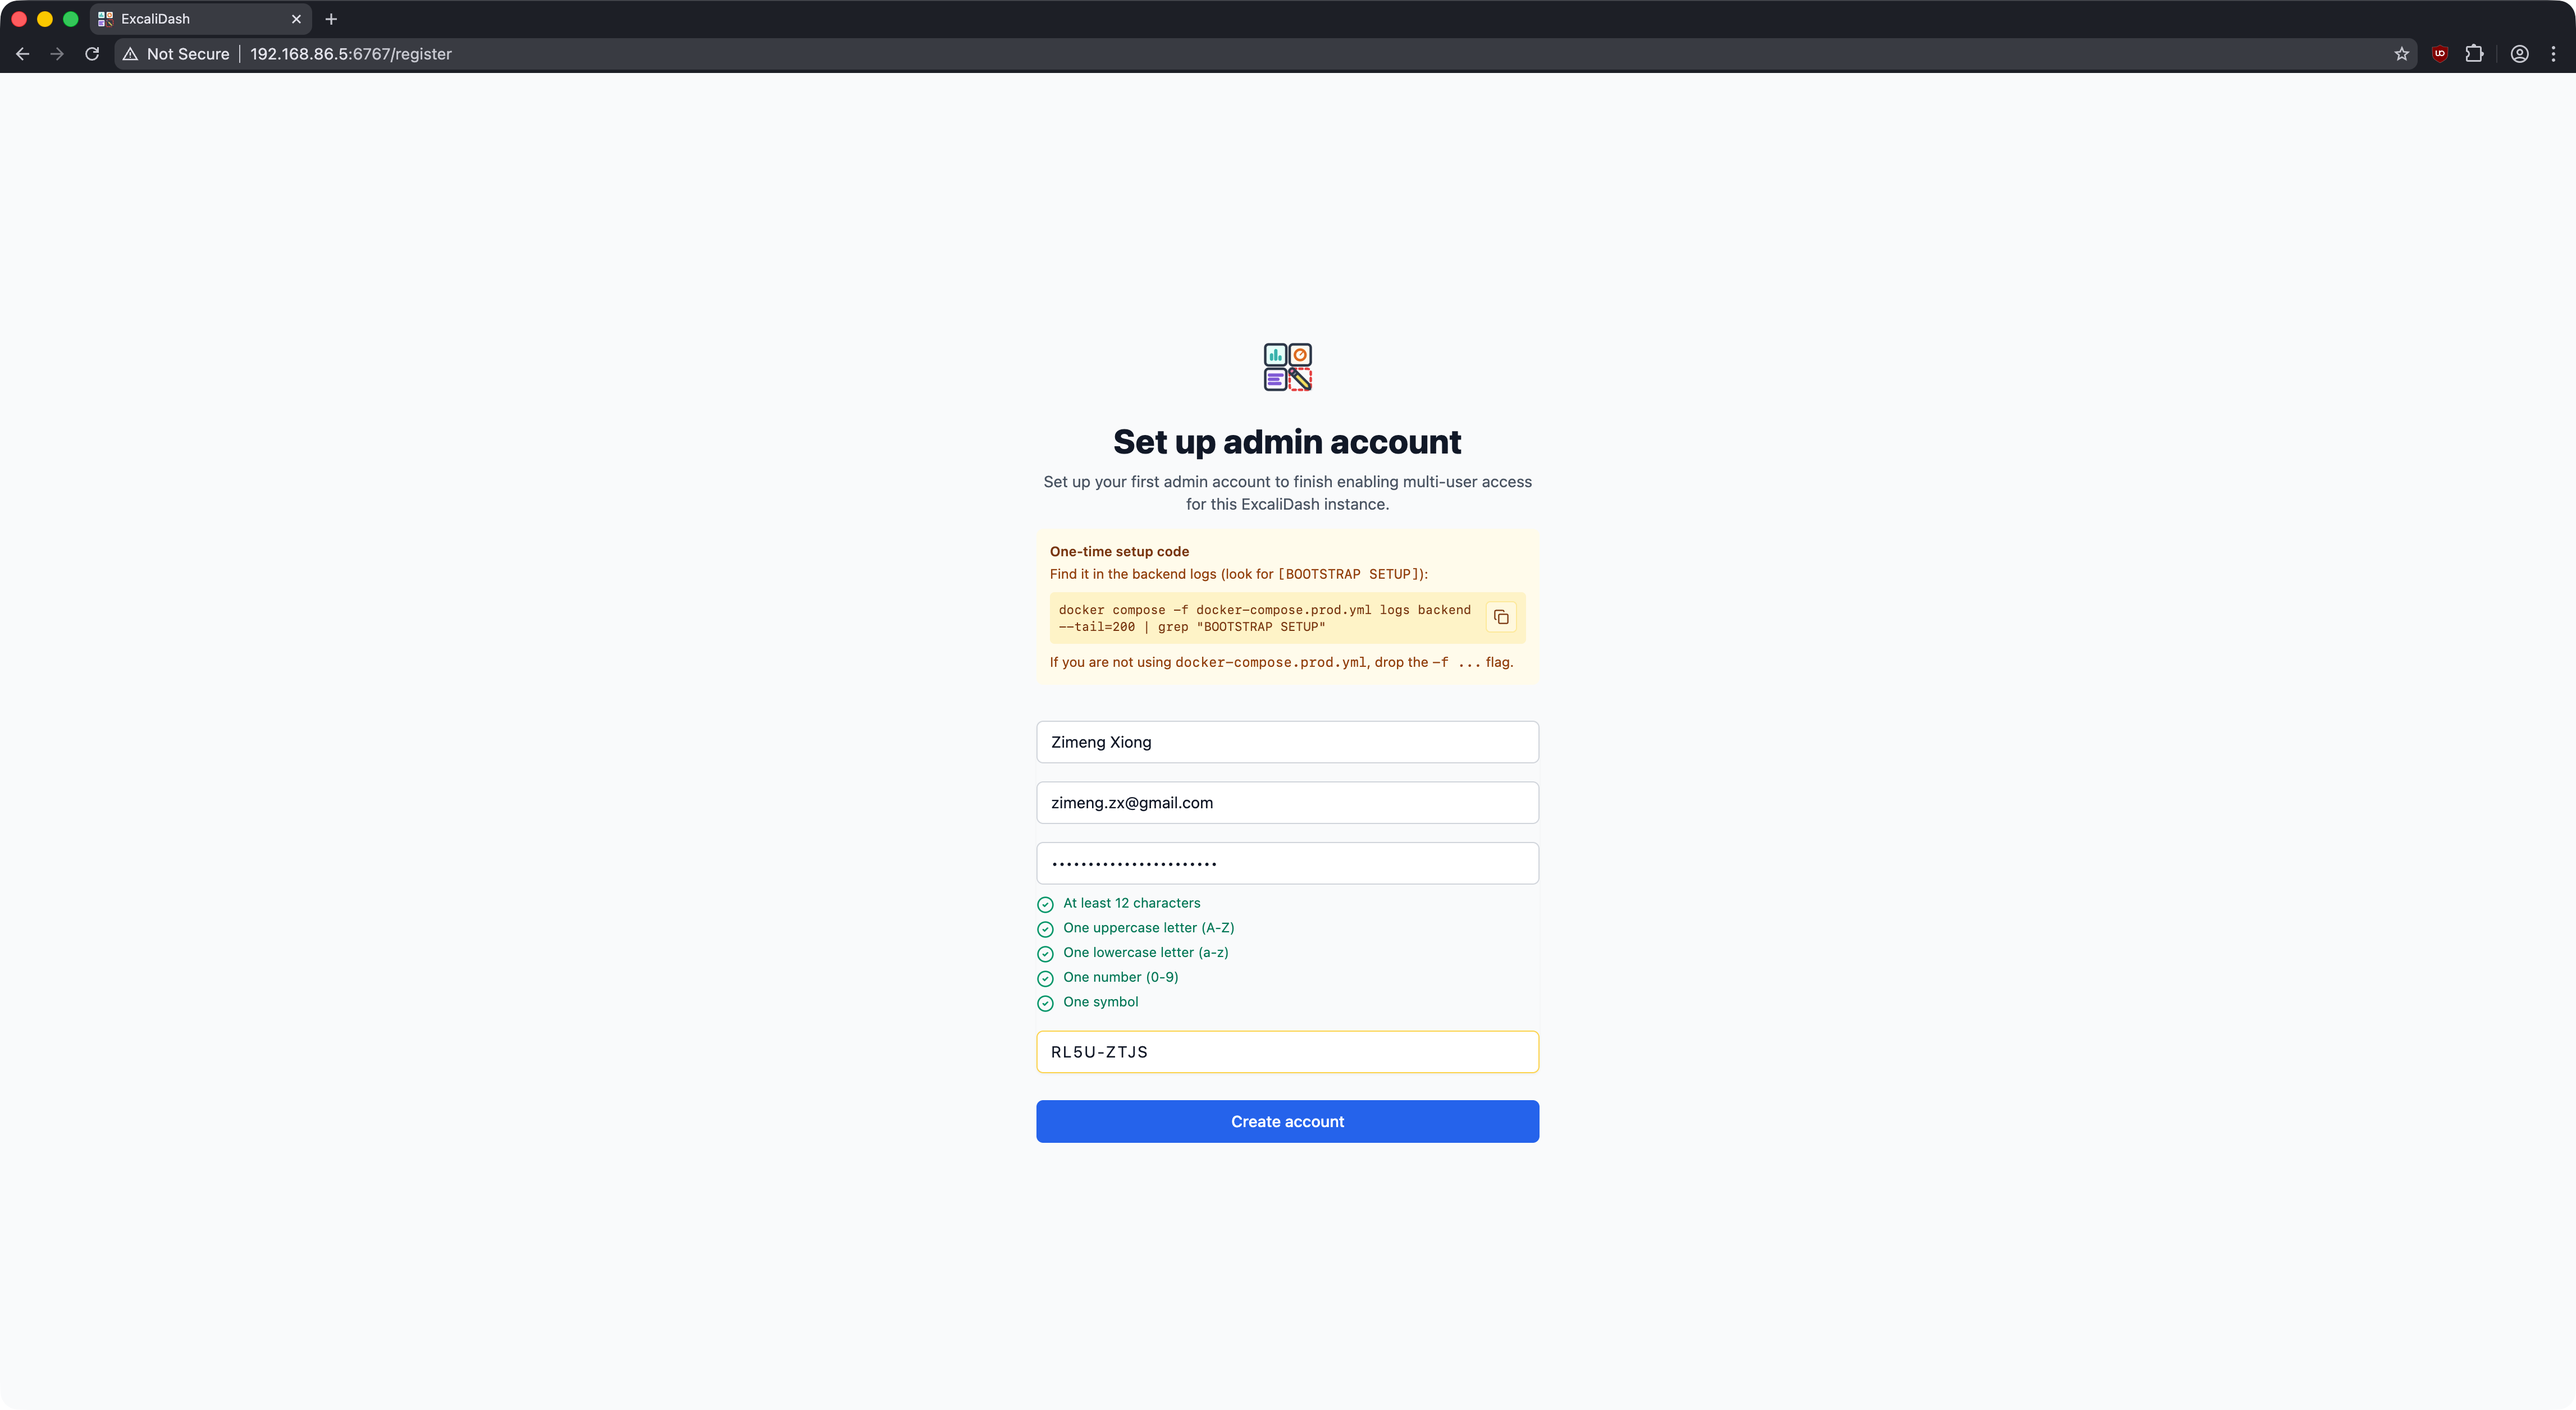
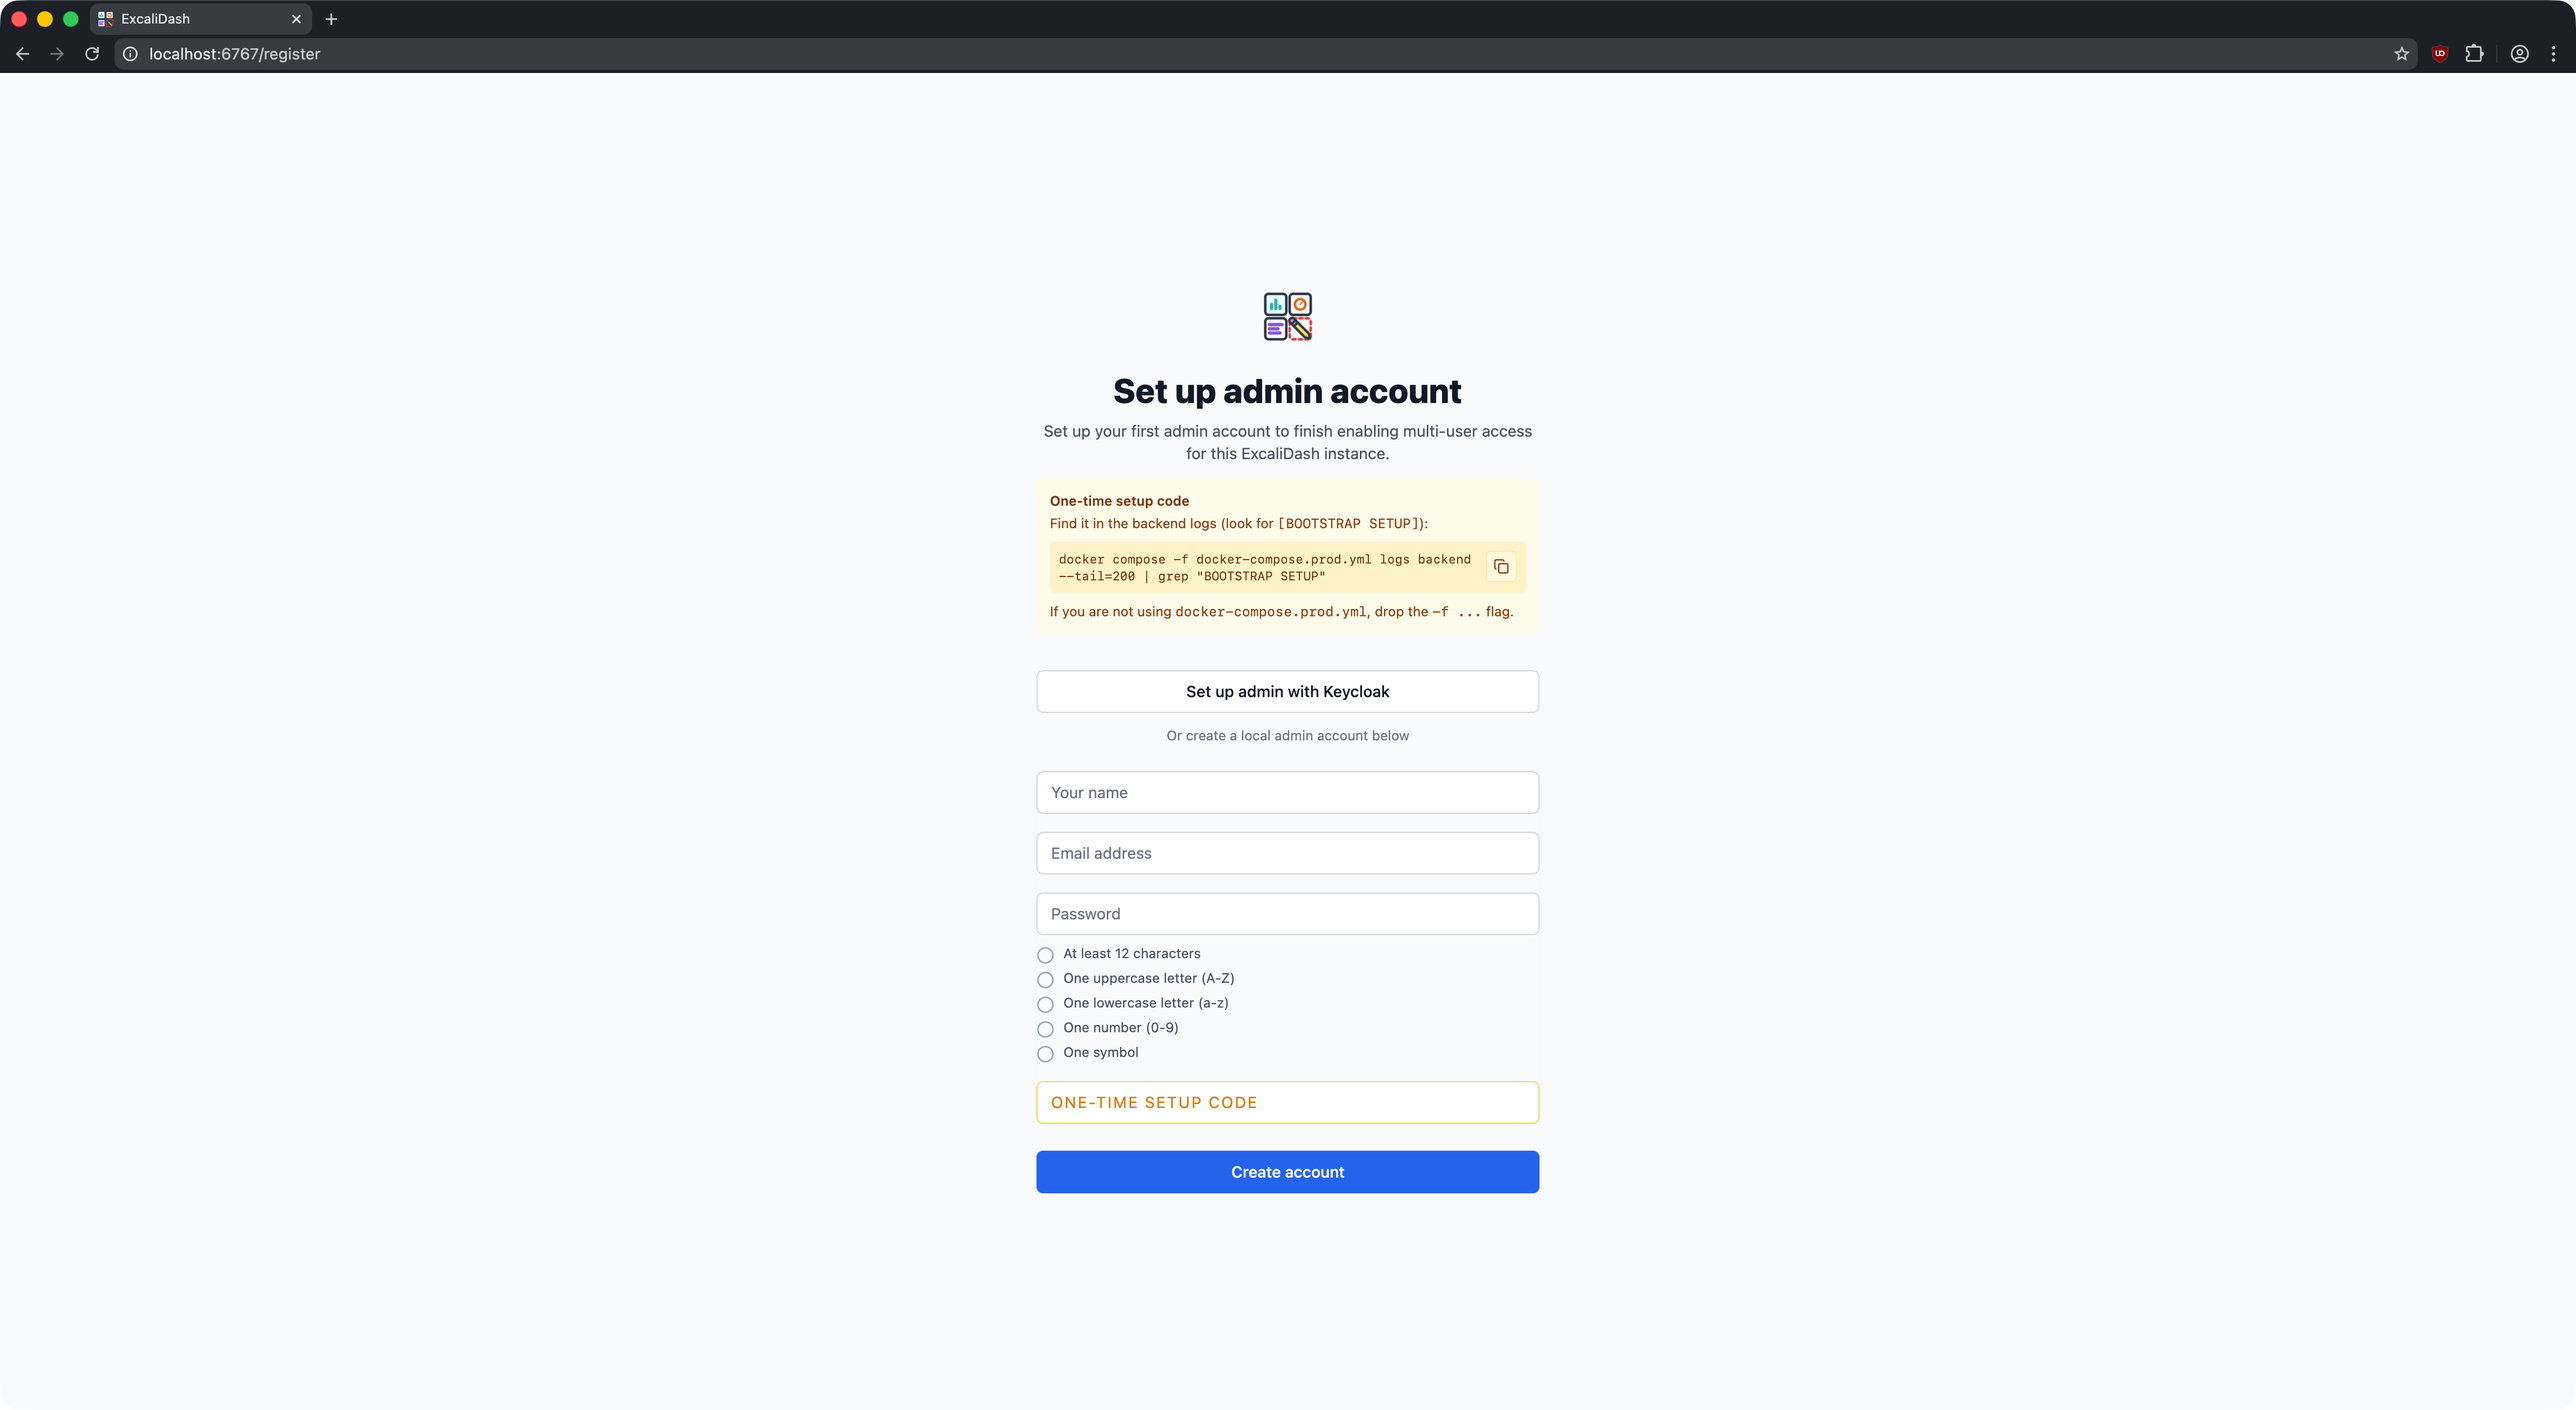
readme

Changed region(s): [[0.4052, 0.2174, 0.6234, 0.8694], [0.0623, 0.0311, 0.1558, 0.0621]]

diff --git a/README.md b/README.md
@@ -39,6 +39,10 @@ A self-hosted dashboard and organizer for [Excalidraw](https://github.com/excali
 <details>
 <summary>(Optional) Multi User Authentication, OIDC Support</summary>
 
+### Sign in with OIDC
+
+![](readme-assets/signInOIDC.png)
+
 ### Migration from v0.3
 
 ![](readme-assets/migrationScreen.png)
